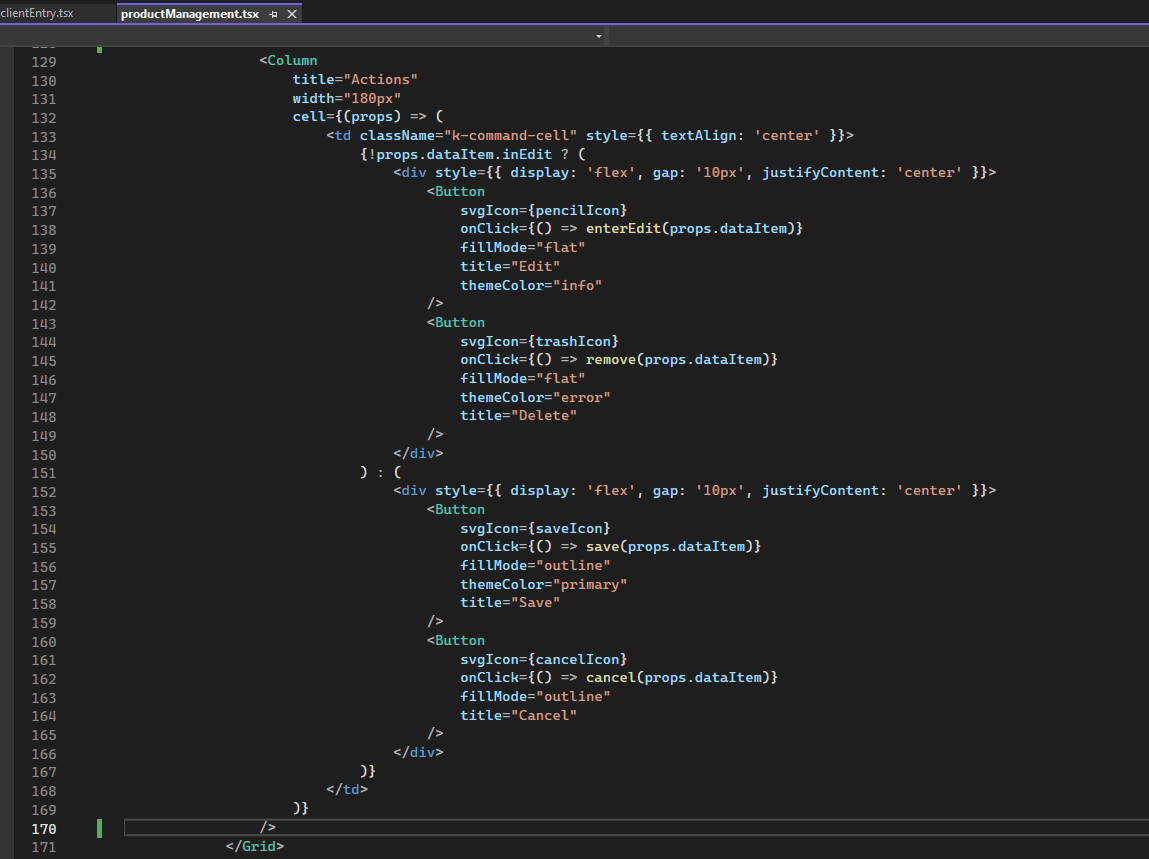
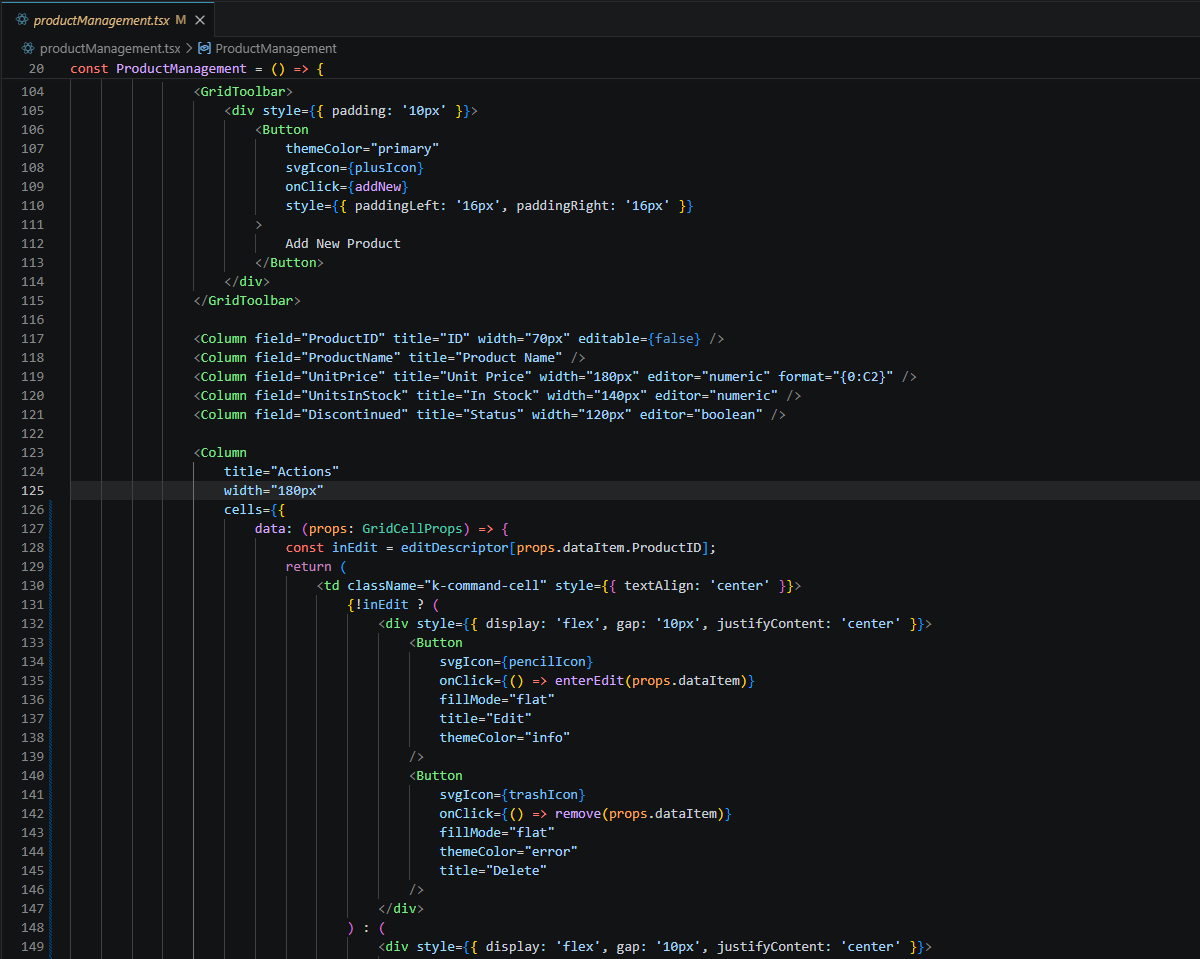
Update product management

diff --git a/productManagement.tsx b/productManagement.tsx
@@ -1,27 +1,13 @@
 import * as React from 'react';
-import { Grid, GridColumn as Column, GridToolbar, GridItemChangeEvent } from '@progress/kendo-react-grid';
-import { 
-    plusIcon, 
-    saveIcon, 
-    cancelIcon, 
-    pencilIcon, 
-    trashIcon 
-} from '@progress/kendo-svg-icons';
+import { Grid, GridColumn as Column, GridToolbar, GridItemChangeEvent, GridCellProps, GridEditChangeEvent } from '@progress/kendo-react-grid';
+import { EditDescriptor } from '@progress/kendo-react-data-tools';
+import { plusIcon, saveIcon, cancelIcon, pencilIcon, trashIcon } from '@progress/kendo-svg-icons';
 import { Button } from '@progress/kendo-react-buttons';
 
-/**
- * Latest Version Used: v14.3.2 (Release: April 2026)
- * File Purpose: Enterprise Product Management with Inline CRUD
- * Created Date: 2026-04-17
- */
-
 interface Product {
-    ProductID: number;
-    ProductName: string;
-    UnitPrice: number;
-    UnitsInStock: number;
-    Discontinued: boolean;
-    inEdit?: boolean;
+    ProductID: number; ProductName: string;
+    UnitPrice: number; UnitsInStock: number;
+    Discontinued: boolean; inEdit?: boolean;
 }
 
 // Mock Data Service (Internalized for a complete working example)
@@ -33,8 +19,11 @@ const initialData: Product[] = [
 
 const ProductManagement = () => {
     const [data, setData] = React.useState<Product[]>(initialData);
+    const [editDescriptor, setEditDescriptor] = React.useState<EditDescriptor>({});
 
-    // Modern ITEM_CHANGE handler for high-performance editing patterns in v14+
+    // ITEM_CHANGE handler for enterprise-grade editing patterns in v14+.
+    // This approach ensures only the modified record is updated in the state,
+    // maximizing performance for large datasets.
     const onItemChange = (event: GridItemChangeEvent) => {
         const newData = data.map(item =>
             item.ProductID === event.dataItem.ProductID
@@ -44,35 +33,40 @@ const ProductManagement = () => {
         setData(newData);
     };
 
+    const onEditChange = (event: GridEditChangeEvent) => {
+        setEditDescriptor(event.edit);
+    };
+
     const addNew = () => {
         const newItem: Product = { 
             ProductID: data.length > 0 ? Math.max(...data.map(p => p.ProductID)) + 1 : 1, 
             ProductName: "New Product", 
             UnitPrice: 0, 
             UnitsInStock: 0, 
-            Discontinued: false, 
-            inEdit: true 
+            Discontinued: false
         };
         setData([newItem, ...data]);
+        setEditDescriptor({ ...editDescriptor, [newItem.ProductID]: true });
     };
 
     const enterEdit = (dataItem: Product) => {
-        setData(data.map(item =>
-            item.ProductID === dataItem.ProductID ? { ...item, inEdit: true } : item
-        ));
+        setEditDescriptor({ ...editDescriptor, [dataItem.ProductID]: true });
     };
 
     const save = (dataItem: Product) => {
-        setData(data.map(item => 
-            item.ProductID === dataItem.ProductID ? { ...dataItem, inEdit: undefined } : item
-        ));
+        const newEditDescriptor = { ...editDescriptor };
+        delete newEditDescriptor[dataItem.ProductID];
+        setEditDescriptor(newEditDescriptor);
     };
 
     const cancel = (dataItem: Product) => {
-        // Simple logic to either discard a new row or reset an existing one
+        const newEditDescriptor = { ...editDescriptor };
+        delete newEditDescriptor[dataItem.ProductID];
+        setEditDescriptor(newEditDescriptor);
+
         const originalItem = initialData.find(p => p.ProductID === dataItem.ProductID);
         if (originalItem) {
-            setData(data.map(item => item.ProductID === dataItem.ProductID ? { ...originalItem, inEdit: undefined } : item));
+            setData(data.map(item => item.ProductID === dataItem.ProductID ? { ...originalItem } : item));
         } else {
             setData(data.filter(item => item.ProductID !== dataItem.ProductID));
         }
@@ -90,9 +84,6 @@ const ProductManagement = () => {
                 <h1 style={{ fontSize: '28px', fontWeight: 700, color: '#1f2937', margin: 0 }}>
                     Product Management Dashboard
                 </h1>
-                <p style={{ color: '#6b7280', marginTop: '4px' }}>
-                    Reference implementation utilizing KendoReact v14.3.2.
-                </p>
             </div>
 
             <Grid
@@ -105,7 +96,10 @@ const ProductManagement = () => {
                 }}
                 data={data}
                 onItemChange={onItemChange}
-                editField="inEdit"
+                onEditChange={onEditChange}
+                edit={editDescriptor}
+                editable={true}
+                dataItemKey="ProductID"
             >
                 <GridToolbar>
                     <div style={{ padding: '10px' }}>
@@ -129,56 +123,52 @@ const ProductManagement = () => {
                 <Column
                     title="Actions"
                     width="180px"
-                    cell={(props) => (
-                        <td className="k-command-cell" style={{ textAlign: 'center' }}>
-                            {!props.dataItem.inEdit ? (
-                                <div style={{ display: 'flex', gap: '10px', justifyContent: 'center' }}>
-                                    <Button
-                                        svgIcon={pencilIcon}
-                                        onClick={() => enterEdit(props.dataItem)}
-                                        fillMode="flat"
-                                        title="Edit"
-                                        themeColor="info"
-                                    />
-                                    <Button
-                                        svgIcon={trashIcon}
-                                        onClick={() => remove(props.dataItem)}
-                                        fillMode="flat"
-                                        themeColor="error"
-                                        title="Delete"
-                                    />
-                                </div>
-                            ) : (
-                                <div style={{ display: 'flex', gap: '10px', justifyContent: 'center' }}>
-                                    <Button
-                                        svgIcon={saveIcon}
-                                        onClick={() => save(props.dataItem)}
-                                        fillMode="outline"
-                                        themeColor="primary"
-                                        title="Save"
-                                    />
-                                    <Button
-                                        svgIcon={cancelIcon}
-                                        onClick={() => cancel(props.dataItem)}
-                                        fillMode="outline"
-                                        title="Cancel"
-                                    />
-                                </div>
-                            )}
-                        </td>
-                    )}
+                    cells={{
+                        data: (props: GridCellProps) => {
+                            const inEdit = editDescriptor[props.dataItem.ProductID];
+                            return (
+                                <td className="k-command-cell" style={{ textAlign: 'center' }}>
+                                    {!inEdit ? (
+                                        <div style={{ display: 'flex', gap: '10px', justifyContent: 'center' }}>
+                                            <Button
+                                                svgIcon={pencilIcon}
+                                                onClick={() => enterEdit(props.dataItem)}
+                                                fillMode="flat"
+                                                title="Edit"
+                                                themeColor="info"
+                                            />
+                                            <Button
+                                                svgIcon={trashIcon}
+                                                onClick={() => remove(props.dataItem)}
+                                                fillMode="flat"
+                                                themeColor="error"
+                                                title="Delete"
+                                            />
+                                        </div>
+                                    ) : (
+                                        <div style={{ display: 'flex', gap: '10px', justifyContent: 'center' }}>
+                                            <Button
+                                                svgIcon={saveIcon}
+                                                onClick={() => save(props.dataItem)}
+                                                fillMode="outline"
+                                                themeColor="primary"
+                                                title="Save"
+                                            />
+                                            <Button
+                                                svgIcon={cancelIcon}
+                                                onClick={() => cancel(props.dataItem)}
+                                                fillMode="outline"
+                                                title="Cancel"
+                                            />
+                                        </div>
+                                    )}
+                                </td>
+                            );
+                        }
+                    }}
                 />
             </Grid>
-            
-            <div style={{ marginTop: '24px', padding: '16px', backgroundColor: '#fff', borderRadius: '8px', border: '1px solid #e5e7eb' }}>
-                <h3 style={{ margin: '0 0 8px 0', fontSize: '16px' }}>Implementation Checklist</h3>
-                <ul style={{ margin: 0, paddingLeft: '20px', color: '#4b5563', fontSize: '14px' }}>
-                    <li>Ensure <strong>@progress/kendo-theme-default</strong> is loaded.</li>
-                    <li>Use <strong>editField</strong> to track UI state without polluting the domain model.</li>
-                    <li>Leverage <strong>SVG Icons</strong> for tree-shaking support.</li>
-                    <li>Handle <strong>onItemChange</strong> for real-time validation feedback.</li>
-                </ul>
-            </div>
+           
         </div>
     );
 };
